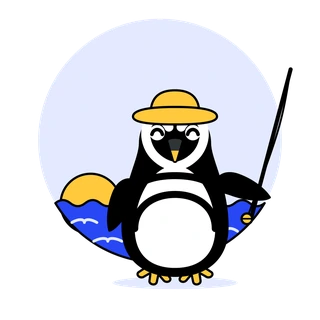
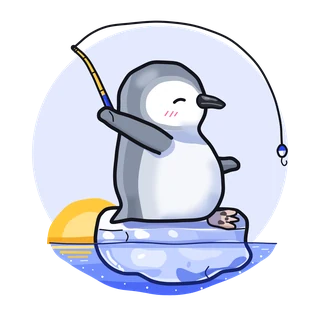
PU: pinguim da amostra 9 no topo e nas oito cenas das telas (dia e noite), vírgula no título

diff --git a/index.html b/index.html
@@ -3,7 +3,7 @@
 <head>
 <meta charset="utf-8"><meta http-equiv="Content-Security-Policy" content="default-src 'self'; script-src 'self'; style-src 'self'; img-src 'self' data:; connect-src https://enem-ginga-conexao.sabrinaconradoadv.chatgpt.site; object-src 'none'; base-uri 'none'; form-action 'self'"><meta name="viewport" content="width=device-width, initial-scale=1, viewport-fit=cover">
 <meta name="theme-color" content="#FFFFFF"><meta name="description" content="Questões oficiais do Enem, Fuvest (USP), Unesp, Unicamp e Famerp, uma por vez e de graça. O que você erra volta em 1, 3 e 7 dias, com meta pequena por dia, simulado curto e progresso por matéria.">
-<title>Pé na Universidade (PU): estude com questões oficiais do Enem e de vestibulares</title><link rel="canonical" href="https://pu.gingamidia.com/"><meta property="og:type" content="website"><meta property="og:locale" content="pt_BR"><meta property="og:site_name" content="Pé na Universidade (PU)"><meta property="og:title" content="Pé na Universidade (PU): estude com questões oficiais do Enem e de vestibulares"><meta property="og:description" content="Questões oficiais do Enem, Fuvest (USP), Unesp, Unicamp e Famerp, uma por vez e de graça. O que você erra volta em 1, 3 e 7 dias, com meta pequena por dia, simulado curto e progresso por matéria."><meta property="og:url" content="https://pu.gingamidia.com/"><meta property="og:image" content="https://pu.gingamidia.com/icones/pu-compartilhamento.png"><meta property="og:image:type" content="image/png"><meta property="og:image:width" content="1200"><meta property="og:image:height" content="630"><meta property="og:image:alt" content="Pinguim de chapéu pesca um livro num barco, ao lado do texto: Estude para o vestibular uma questão por vez. É gratuito."><meta name="twitter:card" content="summary_large_image"><meta name="twitter:image:alt" content="Pinguim de chapéu pesca um livro num barco, ao lado do texto: Estude para o vestibular uma questão por vez. É gratuito."><link rel="manifest" href="./manifest.webmanifest"><link rel="icon" href="./icones/pu-32.png" sizes="32x32" type="image/png"><link rel="icon" href="./icones/pu-16.png" sizes="16x16" type="image/png"><link rel="apple-touch-icon" href="./icones/pu-180.png"><meta name="apple-mobile-web-app-title" content="PU"><link rel="stylesheet" href="./app/public/estilo.css?v=202611141406-sobras"><script src="./configuracao-publica.js"></script><script src="./app/public/tema-inicial.js?v=202611141335-provas"></script><script src="./app/public/simulador.js?v=20261109-cofre" defer></script><script src="./app/public/app.js?v=202611141406-sobras" defer></script>
+<title>Pé na Universidade (PU): estude com questões oficiais do Enem e de vestibulares</title><link rel="canonical" href="https://pu.gingamidia.com/"><meta property="og:type" content="website"><meta property="og:locale" content="pt_BR"><meta property="og:site_name" content="Pé na Universidade (PU)"><meta property="og:title" content="Pé na Universidade (PU): estude com questões oficiais do Enem e de vestibulares"><meta property="og:description" content="Questões oficiais do Enem, Fuvest (USP), Unesp, Unicamp e Famerp, uma por vez e de graça. O que você erra volta em 1, 3 e 7 dias, com meta pequena por dia, simulado curto e progresso por matéria."><meta property="og:url" content="https://pu.gingamidia.com/"><meta property="og:image" content="https://pu.gingamidia.com/icones/pu-compartilhamento.png"><meta property="og:image:type" content="image/png"><meta property="og:image:width" content="1200"><meta property="og:image:height" content="630"><meta property="og:image:alt" content="Pinguim de chapéu pesca um livro num barco, ao lado do texto: Estude para o vestibular uma questão por vez. É gratuito."><meta name="twitter:card" content="summary_large_image"><meta name="twitter:image:alt" content="Pinguim de chapéu pesca um livro num barco, ao lado do texto: Estude para o vestibular uma questão por vez. É gratuito."><link rel="manifest" href="./manifest.webmanifest"><link rel="icon" href="./icones/pu-32.png" sizes="32x32" type="image/png"><link rel="icon" href="./icones/pu-16.png" sizes="16x16" type="image/png"><link rel="apple-touch-icon" href="./icones/pu-180.png"><meta name="apple-mobile-web-app-title" content="PU"><link rel="stylesheet" href="./app/public/estilo.css?v=202611161650-pinguim9"><script src="./configuracao-publica.js"></script><script src="./app/public/tema-inicial.js?v=202611141335-provas"></script><script src="./app/public/simulador.js?v=20261109-cofre" defer></script><script src="./app/public/app.js?v=202611161650-pinguim9" defer></script>
 </head>
 <body class="sem-sessao">
 <a class="pular" href="#principal">Pular para o conteúdo</a>
@@ -12,11 +12,11 @@
 <div class="entrada" data-estatica>
 <div class="faixa faixa-papel faixa-topo"><section class="apresentacao" id="apresentacao" aria-labelledby="titulo-apresentacao">
 <div class="apresentacao-texto">
-<h1 id="titulo-apresentacao">Estude para o vestibular uma questão por vez.<span class="selos-cartaz" aria-hidden="true"><svg class="selo-desenho giro-livro" viewBox="0 0 64 64" focusable="false"><path class="f-mar" d="M5 17c9-5 18-5 27 1 9-6 18-6 27-1v32c-9-5-18-5-27 1-9-6-18-6-27-1z"/><path class="f-nada" d="M32 18v32M11 26c5-2 10-2 15 0M11 33c5-2 10-2 15 0M38 33c5-2 10-2 15 0"/><path class="f-sol" d="M41 15v15l4-3 4 3V14z"/></svg><svg class="selo-desenho giro-visto" viewBox="0 0 64 64" focusable="false"><circle class="f-sol" cx="32" cy="32" r="26"/><path class="f-mar" d="M16 33l6-6 7 7 13-15 6 6-19 21z"/></svg><svg class="selo-desenho giro-calendario" viewBox="0 0 64 64" focusable="false"><rect class="f-papel" x="8" y="13" width="48" height="43" rx="4"/><path class="f-boia" d="M8 17a4 4 0 0 1 4-4h40a4 4 0 0 1 4 4v8H8z"/><path class="f-nada" d="M20 8v10M44 8v10"/><rect class="f-nada" x="15" y="32" width="8" height="7"/><rect class="f-boia" x="28" y="32" width="8" height="7"/><rect class="f-nada" x="41" y="32" width="8" height="7"/><rect class="f-nada" x="15" y="44" width="8" height="7"/><rect class="f-nada" x="28" y="44" width="8" height="7"/></svg></span></h1>
+<h1 id="titulo-apresentacao">Estude para o vestibular, uma questão por vez.<span class="selos-cartaz" aria-hidden="true"><svg class="selo-desenho giro-livro" viewBox="0 0 64 64" focusable="false"><path class="f-mar" d="M5 17c9-5 18-5 27 1 9-6 18-6 27-1v32c-9-5-18-5-27 1-9-6-18-6-27-1z"/><path class="f-nada" d="M32 18v32M11 26c5-2 10-2 15 0M11 33c5-2 10-2 15 0M38 33c5-2 10-2 15 0"/><path class="f-sol" d="M41 15v15l4-3 4 3V14z"/></svg><svg class="selo-desenho giro-visto" viewBox="0 0 64 64" focusable="false"><circle class="f-sol" cx="32" cy="32" r="26"/><path class="f-mar" d="M16 33l6-6 7 7 13-15 6 6-19 21z"/></svg><svg class="selo-desenho giro-calendario" viewBox="0 0 64 64" focusable="false"><rect class="f-papel" x="8" y="13" width="48" height="43" rx="4"/><path class="f-boia" d="M8 17a4 4 0 0 1 4-4h40a4 4 0 0 1 4 4v8H8z"/><path class="f-nada" d="M20 8v10M44 8v10"/><rect class="f-nada" x="15" y="32" width="8" height="7"/><rect class="f-boia" x="28" y="32" width="8" height="7"/><rect class="f-nada" x="41" y="32" width="8" height="7"/><rect class="f-nada" x="15" y="44" width="8" height="7"/><rect class="f-nada" x="28" y="44" width="8" height="7"/></svg></span></h1>
 <p class="lide">Questões oficiais do Enem, Fuvest (USP), Unesp, Unicamp e Famerp, uma por vez. Você responde, confere e para quando quiser. O que você errar volta para a revisão depois de 1, 3 e 7 dias.</p>
 <div class="topo-acoes"><a class="botao" href="#criar-conta">Criar minha conta</a><p class="tarja">É gratuito</p></div>
 </div>
-<div class="cena-mar" aria-hidden="true"><svg viewBox="0 0 360 172" focusable="false"><circle class="c-mar-claro" cx="205" cy="104" r="96"/><circle class="c-sol c-contorno" cx="298" cy="48" r="28"/><path class="c-linha" d="M171.7 47.6c8 30 33 36 33 62"/><g class="livro-pescado"><path class="c-papel c-contorno" d="M178 112c9-5 18-5 27 1 9-6 18-6 27-1v28c-9-5-18-5-27 1-9-6-18-6-27-1z"/><path class="c-linha" d="M205 113v28M184 121c5-2 10-2 15 0M184 128c5-2 10-2 15 0M211 128c5-2 10-2 15 0"/><path class="c-sol c-contorno" d="M216 110v14l3-2.5 3 2.5v-15.5z"/></g><g class="boia"><path class="c-boia c-contorno" fill-rule="evenodd" d="M312 148a22 22 0 1 1 0 44a22 22 0 1 1 0-44zM312 161a9 9 0 1 0 0 18a9 9 0 1 0 0-18z"/><circle class="c-faixas-boia" cx="312" cy="170" r="15.5"/></g></svg><i class="pescador"></i></div>
+<div class="cena-mar" aria-hidden="true"><i class="pescador"></i></div>
 </section></div>
 <div class="mar-topo" aria-hidden="true"></div>
 <div data-lugar="faixa-que-corre"></div>

diff --git a/app/public/index.html b/app/public/index.html
@@ -3,7 +3,7 @@
 <head>
 <meta charset="utf-8"><meta name="viewport" content="width=device-width, initial-scale=1, viewport-fit=cover">
 <meta name="theme-color" content="#FFFFFF"><meta name="description" content="Questões oficiais do Enem, Fuvest (USP), Unesp, Unicamp e Famerp, uma por vez e de graça. O que você erra volta em 1, 3 e 7 dias, com meta pequena por dia, simulado curto e progresso por matéria.">
-<title>Pé na Universidade (PU): estude com questões oficiais do Enem e de vestibulares</title><link rel="canonical" href="https://pu.gingamidia.com/"><meta property="og:type" content="website"><meta property="og:locale" content="pt_BR"><meta property="og:site_name" content="Pé na Universidade (PU)"><meta property="og:title" content="Pé na Universidade (PU): estude com questões oficiais do Enem e de vestibulares"><meta property="og:description" content="Questões oficiais do Enem, Fuvest (USP), Unesp, Unicamp e Famerp, uma por vez e de graça. O que você erra volta em 1, 3 e 7 dias, com meta pequena por dia, simulado curto e progresso por matéria."><meta property="og:url" content="https://pu.gingamidia.com/"><meta property="og:image" content="https://pu.gingamidia.com/icones/pu-compartilhamento.png"><meta property="og:image:type" content="image/png"><meta property="og:image:width" content="1200"><meta property="og:image:height" content="630"><meta property="og:image:alt" content="Pinguim de chapéu pesca um livro num barco, ao lado do texto: Estude para o vestibular uma questão por vez. É gratuito."><meta name="twitter:card" content="summary_large_image"><meta name="twitter:image:alt" content="Pinguim de chapéu pesca um livro num barco, ao lado do texto: Estude para o vestibular uma questão por vez. É gratuito."><link rel="stylesheet" href="/estilo.css?v=202611141406-sobras"><script src="/tema-inicial.js?v=202611141335-provas"></script><script src="/simulador.js?v=20261109-cofre" defer></script><script src="/app.js?v=202611141406-sobras" defer></script>
+<title>Pé na Universidade (PU): estude com questões oficiais do Enem e de vestibulares</title><link rel="canonical" href="https://pu.gingamidia.com/"><meta property="og:type" content="website"><meta property="og:locale" content="pt_BR"><meta property="og:site_name" content="Pé na Universidade (PU)"><meta property="og:title" content="Pé na Universidade (PU): estude com questões oficiais do Enem e de vestibulares"><meta property="og:description" content="Questões oficiais do Enem, Fuvest (USP), Unesp, Unicamp e Famerp, uma por vez e de graça. O que você erra volta em 1, 3 e 7 dias, com meta pequena por dia, simulado curto e progresso por matéria."><meta property="og:url" content="https://pu.gingamidia.com/"><meta property="og:image" content="https://pu.gingamidia.com/icones/pu-compartilhamento.png"><meta property="og:image:type" content="image/png"><meta property="og:image:width" content="1200"><meta property="og:image:height" content="630"><meta property="og:image:alt" content="Pinguim de chapéu pesca um livro num barco, ao lado do texto: Estude para o vestibular uma questão por vez. É gratuito."><meta name="twitter:card" content="summary_large_image"><meta name="twitter:image:alt" content="Pinguim de chapéu pesca um livro num barco, ao lado do texto: Estude para o vestibular uma questão por vez. É gratuito."><link rel="stylesheet" href="/estilo.css?v=202611161650-pinguim9"><script src="/tema-inicial.js?v=202611141335-provas"></script><script src="/simulador.js?v=20261109-cofre" defer></script><script src="/app.js?v=202611161650-pinguim9" defer></script>
 </head>
 <body class="sem-sessao">
 <a class="pular" href="#principal">Pular para o conteúdo</a>
@@ -12,11 +12,11 @@
 <div class="entrada" data-estatica>
 <div class="faixa faixa-papel faixa-topo"><section class="apresentacao" id="apresentacao" aria-labelledby="titulo-apresentacao">
 <div class="apresentacao-texto">
-<h1 id="titulo-apresentacao">Estude para o vestibular uma questão por vez.<span class="selos-cartaz" aria-hidden="true"><svg class="selo-desenho giro-livro" viewBox="0 0 64 64" focusable="false"><path class="f-mar" d="M5 17c9-5 18-5 27 1 9-6 18-6 27-1v32c-9-5-18-5-27 1-9-6-18-6-27-1z"/><path class="f-nada" d="M32 18v32M11 26c5-2 10-2 15 0M11 33c5-2 10-2 15 0M38 33c5-2 10-2 15 0"/><path class="f-sol" d="M41 15v15l4-3 4 3V14z"/></svg><svg class="selo-desenho giro-visto" viewBox="0 0 64 64" focusable="false"><circle class="f-sol" cx="32" cy="32" r="26"/><path class="f-mar" d="M16 33l6-6 7 7 13-15 6 6-19 21z"/></svg><svg class="selo-desenho giro-calendario" viewBox="0 0 64 64" focusable="false"><rect class="f-papel" x="8" y="13" width="48" height="43" rx="4"/><path class="f-boia" d="M8 17a4 4 0 0 1 4-4h40a4 4 0 0 1 4 4v8H8z"/><path class="f-nada" d="M20 8v10M44 8v10"/><rect class="f-nada" x="15" y="32" width="8" height="7"/><rect class="f-boia" x="28" y="32" width="8" height="7"/><rect class="f-nada" x="41" y="32" width="8" height="7"/><rect class="f-nada" x="15" y="44" width="8" height="7"/><rect class="f-nada" x="28" y="44" width="8" height="7"/></svg></span></h1>
+<h1 id="titulo-apresentacao">Estude para o vestibular, uma questão por vez.<span class="selos-cartaz" aria-hidden="true"><svg class="selo-desenho giro-livro" viewBox="0 0 64 64" focusable="false"><path class="f-mar" d="M5 17c9-5 18-5 27 1 9-6 18-6 27-1v32c-9-5-18-5-27 1-9-6-18-6-27-1z"/><path class="f-nada" d="M32 18v32M11 26c5-2 10-2 15 0M11 33c5-2 10-2 15 0M38 33c5-2 10-2 15 0"/><path class="f-sol" d="M41 15v15l4-3 4 3V14z"/></svg><svg class="selo-desenho giro-visto" viewBox="0 0 64 64" focusable="false"><circle class="f-sol" cx="32" cy="32" r="26"/><path class="f-mar" d="M16 33l6-6 7 7 13-15 6 6-19 21z"/></svg><svg class="selo-desenho giro-calendario" viewBox="0 0 64 64" focusable="false"><rect class="f-papel" x="8" y="13" width="48" height="43" rx="4"/><path class="f-boia" d="M8 17a4 4 0 0 1 4-4h40a4 4 0 0 1 4 4v8H8z"/><path class="f-nada" d="M20 8v10M44 8v10"/><rect class="f-nada" x="15" y="32" width="8" height="7"/><rect class="f-boia" x="28" y="32" width="8" height="7"/><rect class="f-nada" x="41" y="32" width="8" height="7"/><rect class="f-nada" x="15" y="44" width="8" height="7"/><rect class="f-nada" x="28" y="44" width="8" height="7"/></svg></span></h1>
 <p class="lide">Questões oficiais do Enem, Fuvest (USP), Unesp, Unicamp e Famerp, uma por vez. Você responde, confere e para quando quiser. O que você errar volta para a revisão depois de 1, 3 e 7 dias.</p>
 <div class="topo-acoes"><a class="botao" href="#criar-conta">Criar minha conta</a><p class="tarja">É gratuito</p></div>
 </div>
-<div class="cena-mar" aria-hidden="true"><svg viewBox="0 0 360 172" focusable="false"><circle class="c-mar-claro" cx="205" cy="104" r="96"/><circle class="c-sol c-contorno" cx="298" cy="48" r="28"/><path class="c-linha" d="M171.7 47.6c8 30 33 36 33 62"/><g class="livro-pescado"><path class="c-papel c-contorno" d="M178 112c9-5 18-5 27 1 9-6 18-6 27-1v28c-9-5-18-5-27 1-9-6-18-6-27-1z"/><path class="c-linha" d="M205 113v28M184 121c5-2 10-2 15 0M184 128c5-2 10-2 15 0M211 128c5-2 10-2 15 0"/><path class="c-sol c-contorno" d="M216 110v14l3-2.5 3 2.5v-15.5z"/></g><g class="boia"><path class="c-boia c-contorno" fill-rule="evenodd" d="M312 148a22 22 0 1 1 0 44a22 22 0 1 1 0-44zM312 161a9 9 0 1 0 0 18a9 9 0 1 0 0-18z"/><circle class="c-faixas-boia" cx="312" cy="170" r="15.5"/></g></svg><i class="pescador"></i></div>
+<div class="cena-mar" aria-hidden="true"><i class="pescador"></i></div>
 </section></div>
 <div class="mar-topo" aria-hidden="true"></div>
 <div data-lugar="faixa-que-corre"></div>

diff --git a/app/public/estilo.css b/app/public/estilo.css
@@ -339,12 +339,12 @@ body.sem-sessao:has(#conteudo > .entrada:not([data-estatica])) .entrar-topo {
 .topo-acoes .botao { min-height: 3.25rem; padding-inline: 1.5rem; font-weight: 700; }
 .tarja { display: inline-block; margin: 0; padding: .25rem .875rem; border: 1px solid var(--tinta); background: var(--amarelo-sol); color: #000000;
   font-family: var(--fonte-cartaz); font-weight: 800; font-size: 1.25rem; letter-spacing: .04em; text-transform: uppercase; rotate: -3deg; }
-/* Cena do topo (frente sobras): o SVG e o pescador ocupam a mesma caixa, de proporção fixa (sem deslocamento ao carregar a imagem).
-   A base da caixa é a linha d'água; o mar é a .mar-topo, na largura toda, por cima do casco, do círculo e da boia. */
-.cena-mar { position: relative; width: 100%; max-width: 19rem; aspect-ratio: 360 / 172; justify-self: center; align-self: end; }
+/* Cena do topo: o pinguim pescador da amostra 9 (gelo, balde, vara e livro na água), numa caixa de proporção fixa (sem deslocamento
+   ao carregar a imagem). A base da caixa encosta no mar da .mar-topo, que vai de uma borda à outra. */
+.cena-mar { position: relative; width: 100%; max-width: 17rem; aspect-ratio: 920 / 752; justify-self: center; align-self: end; }
 .cena-mar svg { position: absolute; inset: 0; width: 100%; height: 100%; overflow: visible; }
 .cena-mar svg * { vector-effect: non-scaling-stroke; stroke-linejoin: round; stroke-linecap: round; }
-.pescador { position: absolute; left: 6.667%; top: 26.57%; width: 41.667%; aspect-ratio: 460 / 429; background: url("ilustracoes/pescador-livro.webp") 0 0 / 100% 100% no-repeat; }
+.pescador { position: absolute; inset: 0; background: url("ilustracoes/pescador-gelo.webp") 0 0 / 100% 100% no-repeat; }
 .mar-topo { position: relative; height: 3rem; margin-top: 7px; background: var(--azul-mar); }
 .mar-topo::before { content: ""; position: absolute; inset: auto 0 100% 0; height: 14px; background: var(--azul-mar);
   -webkit-mask: var(--forma-mar) 0 0 / 60px 14px repeat-x; mask: var(--forma-mar) 0 0 / 60px 14px repeat-x; }
@@ -456,7 +456,7 @@ body.sem-sessao:has(#conteudo > .entrada:not([data-estatica])) .entrar-topo {
 .privacidade { margin: 1.25rem 0 0; }
 .privacidade small { color: var(--texto); font-size: .875rem; }
 
-@media (min-width: 40rem) { .lista-ganhos { grid-template-columns: repeat(2, minmax(0, 1fr)); } .cena-mar { max-width: 22rem; } }
+@media (min-width: 40rem) { .lista-ganhos { grid-template-columns: repeat(2, minmax(0, 1fr)); } .cena-mar { max-width: 19rem; } }
 @media (min-width: 56rem) {
   .faixa { padding-block: 5rem; padding-inline: 2rem; }
   /* No computador o título também acompanha a altura da tela, para o começo da demonstração aparecer na primeira tela (regra decoração-sem-respiro). */
@@ -466,7 +466,7 @@ body.sem-sessao:has(#conteudo > .entrada:not([data-estatica])) .entrar-topo {
   .mar-topo::after { top: 1.5rem; }
   .apresentacao h1 { font-size: clamp(3rem, min(12vw, 10vh), 7rem); max-width: 13ch; }
   .apresentacao { grid-template-columns: minmax(0, 1.25fr) minmax(0, 1fr); gap: 3rem; }
-  .cena-mar { max-width: 34rem; }
+  .cena-mar { max-width: 27rem; }
   .experimente [data-lugar="demonstracao"] { padding: 2rem 2.5rem; }
   .passos { grid-template-columns: repeat(3, minmax(0, 1fr)); gap: 2rem; }
   .provas { grid-template-columns: minmax(0, 1.3fr) minmax(0, 1fr); grid-template-rows: auto auto 1fr; align-items: start; }

diff --git a/app/public/app.js b/app/public/app.js
@@ -534,7 +534,7 @@ const MOLDE_ENTRADA = (() => {
   const copia = bloco.cloneNode(true); copia.removeAttribute('data-estatica'); return copia.outerHTML;
 })();
 // Sem o bloco (index.html antigo), a entrada fica só com o título, a demonstração e o formulário.
-const MOLDE_RESERVA = `<div class="entrada"><div class="faixa faixa-papel"><section class="apresentacao" id="apresentacao"><h1>Estude para o vestibular uma questão por vez.</h1></section></div>
+const MOLDE_RESERVA = `<div class="entrada"><div class="faixa faixa-papel"><section class="apresentacao" id="apresentacao"><h1>Estude para o vestibular, uma questão por vez.</h1></section></div>
 <div data-lugar="faixa-que-corre"></div><div class="faixa faixa-areia"><section class="experimente" id="experimente"><h2 id="titulo-experimente">Experimente uma questão</h2><div data-lugar="demonstracao"></div></section></div>
 <div class="faixa faixa-sol-claro"><section class="chamada" id="entrar"><div class="formulario" data-lugar="formulario"></div></section></div></div>`;
 // Provas no ar: fonte única da lista "Provas no PU" da entrada. Conferido em 14/11/2026 no catálogo novo da frente provas
